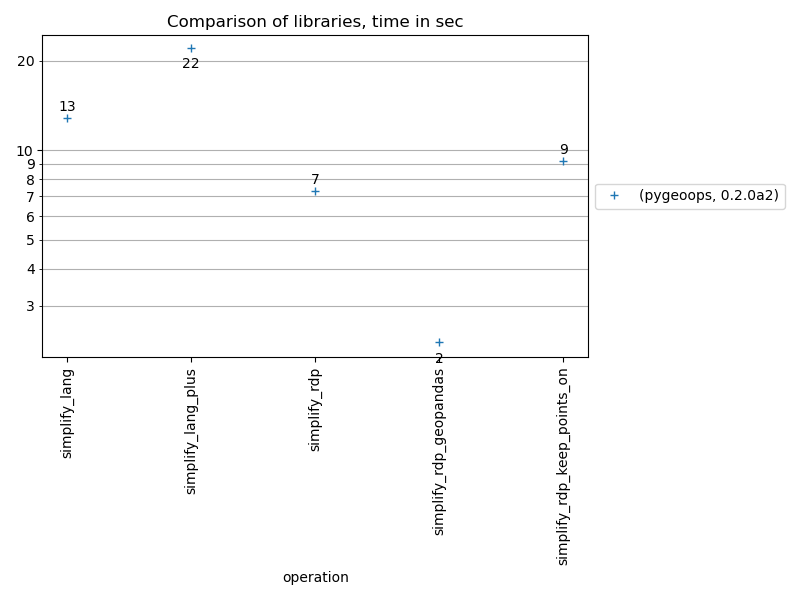
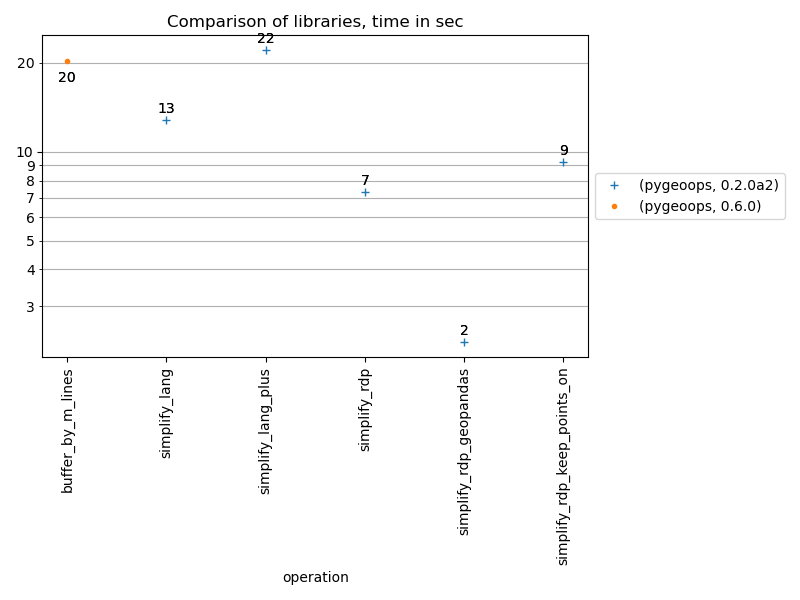
ENH: Add benchmark for buffer_by_m on lines (#145)

diff --git a/benchmark/reporter.py b/benchmark/reporter.py
@@ -2,6 +2,8 @@
 
 import ast
 import math
+import shutil
+import tempfile
 from pathlib import Path
 from typing import Literal
 
@@ -9,19 +11,23 @@ import matplotlib.pyplot as plt
 import numpy as np
 import pandas as pd
 import pandas.api
-
-# mypy: disable-error-code="operator"
+from PIL import Image
 
 A4_LONG_SIDE = 11.69
 A4_SHORT_SIDE = 8.27
 
 
 def generate_reports(results_path: Path, output_dir: Path):
-    """Generate reports based on benchmark results."""
+    """Generate the benchmarking reports.
+
+    Args:
+        results_path (Path): the result path to find the results to report on.
+        output_dir (Path): directory to write the reports to.
+    """
     benchmark_df = pd.read_csv(results_path)
 
     def format_run_details(input: dict) -> str:
-        if input is None or np.isnan(input):
+        if input is None or input == np.nan:  # noqa: PLW0177
             return ""
         if isinstance(input, str):
             input = ast.literal_eval(input)
@@ -193,7 +199,7 @@ def save_chart(
 
         label_above_line = True
         for index, row in enumerate(df.itertuples()):
-            for row_fieldname, row_fieldvalue in row._asdict().items():
+            for row_fieldname, row_fieldvalue in row._asdict().items():  # type: ignore
                 if row_fieldname != "Index":
                     if max_y_value is None or row_fieldvalue > max_y_value:
                         max_y_value = row_fieldvalue
@@ -236,8 +242,20 @@ def save_chart(
     plt.legend(loc="center left", bbox_to_anchor=(1, 0.5))
     plt.tight_layout()
 
-    # Save and open if wanted
-    fig.savefig(str(output_path))
+    # Save the file if it doesn't exist yet
+    if not output_path.exists():
+        fig.savefig(str(output_path))
+    else:
+        # If it already exists, only save it if it has changed
+        with tempfile.TemporaryDirectory() as tmp_dir:
+            tmp_output_path = Path(tmp_dir) / output_path.name
+            fig.savefig(tmp_output_path)
+            img_new = np.asarray(Image.open(tmp_output_path))
+            img_old = np.asarray(Image.open(output_path))
+            if not np.array_equal(img_new, img_old):
+                shutil.move(tmp_output_path, output_path)
+
+    plt.close(fig=fig)
 
 
 if __name__ == "__main__":

diff --git a/benchmark/benchmarks/benchmarks_pygeoops.py b/benchmark/benchmarks/benchmarks_pygeoops.py
@@ -26,6 +26,36 @@ def _get_version() -> str:
     return pygeoops.__version__
 
 
+def buffer_by_m_lines(tmp_dir: Path) -> RunResult:
+    """Buffer line geometries with variable width."""
+    # Init
+    function_name = inspect.currentframe().f_code.co_name  # type: ignore[union-attr]
+    line = [[0, 0], [5, -2], [10, 2], [15, 0], [20, 5], [25, 0], [35, 0]]
+    buffer_distances = [3, 4, 0, 2, 5, 2, 2]
+    line_z = [[x, y, z] for (x, y), z in zip(line, buffer_distances, strict=True)]
+    nb_lines = 20000
+    data_z = [line_z] * nb_lines
+    lines = [shapely.LineString(line) for line in data_z]
+
+    quad_segs_new = 8
+
+    # Go!
+    start_time = datetime.now()
+    _ = pygeoops.buffer_by_m(lines, quad_segs_new)
+    operation_descr = f"{function_name} on {nb_lines} lines"
+    result = RunResult(
+        package=_get_package(),
+        package_version=_get_version(),
+        operation=function_name,
+        secs_taken=(datetime.now() - start_time).total_seconds(),
+        operation_descr=operation_descr,
+        run_details=None,
+    )
+
+    # Cleanup and return
+    return result
+
+
 def simplify_lang(tmp_dir: Path) -> RunResult:
     """Simplify geometries using Lang algorithm with pygeoops."""
     # Init

diff --git a/benchmark/benchmark_pygeoops.py b/benchmark/benchmark_pygeoops.py
@@ -9,8 +9,9 @@ def main():
     benchmarker.run_benchmarks(
         modules_to_run=["benchmarks_pygeoops"],
         functions_to_run=[
-            "simplify_lang",
-            "simplify_lang_plus",
+            "buffer_by_m_lines",
+            # "simplify_lang",
+            # "simplify_lang_plus",
             # "simplify_rdp",
             # "simplify_rdp_keep_points_on",
         ],
